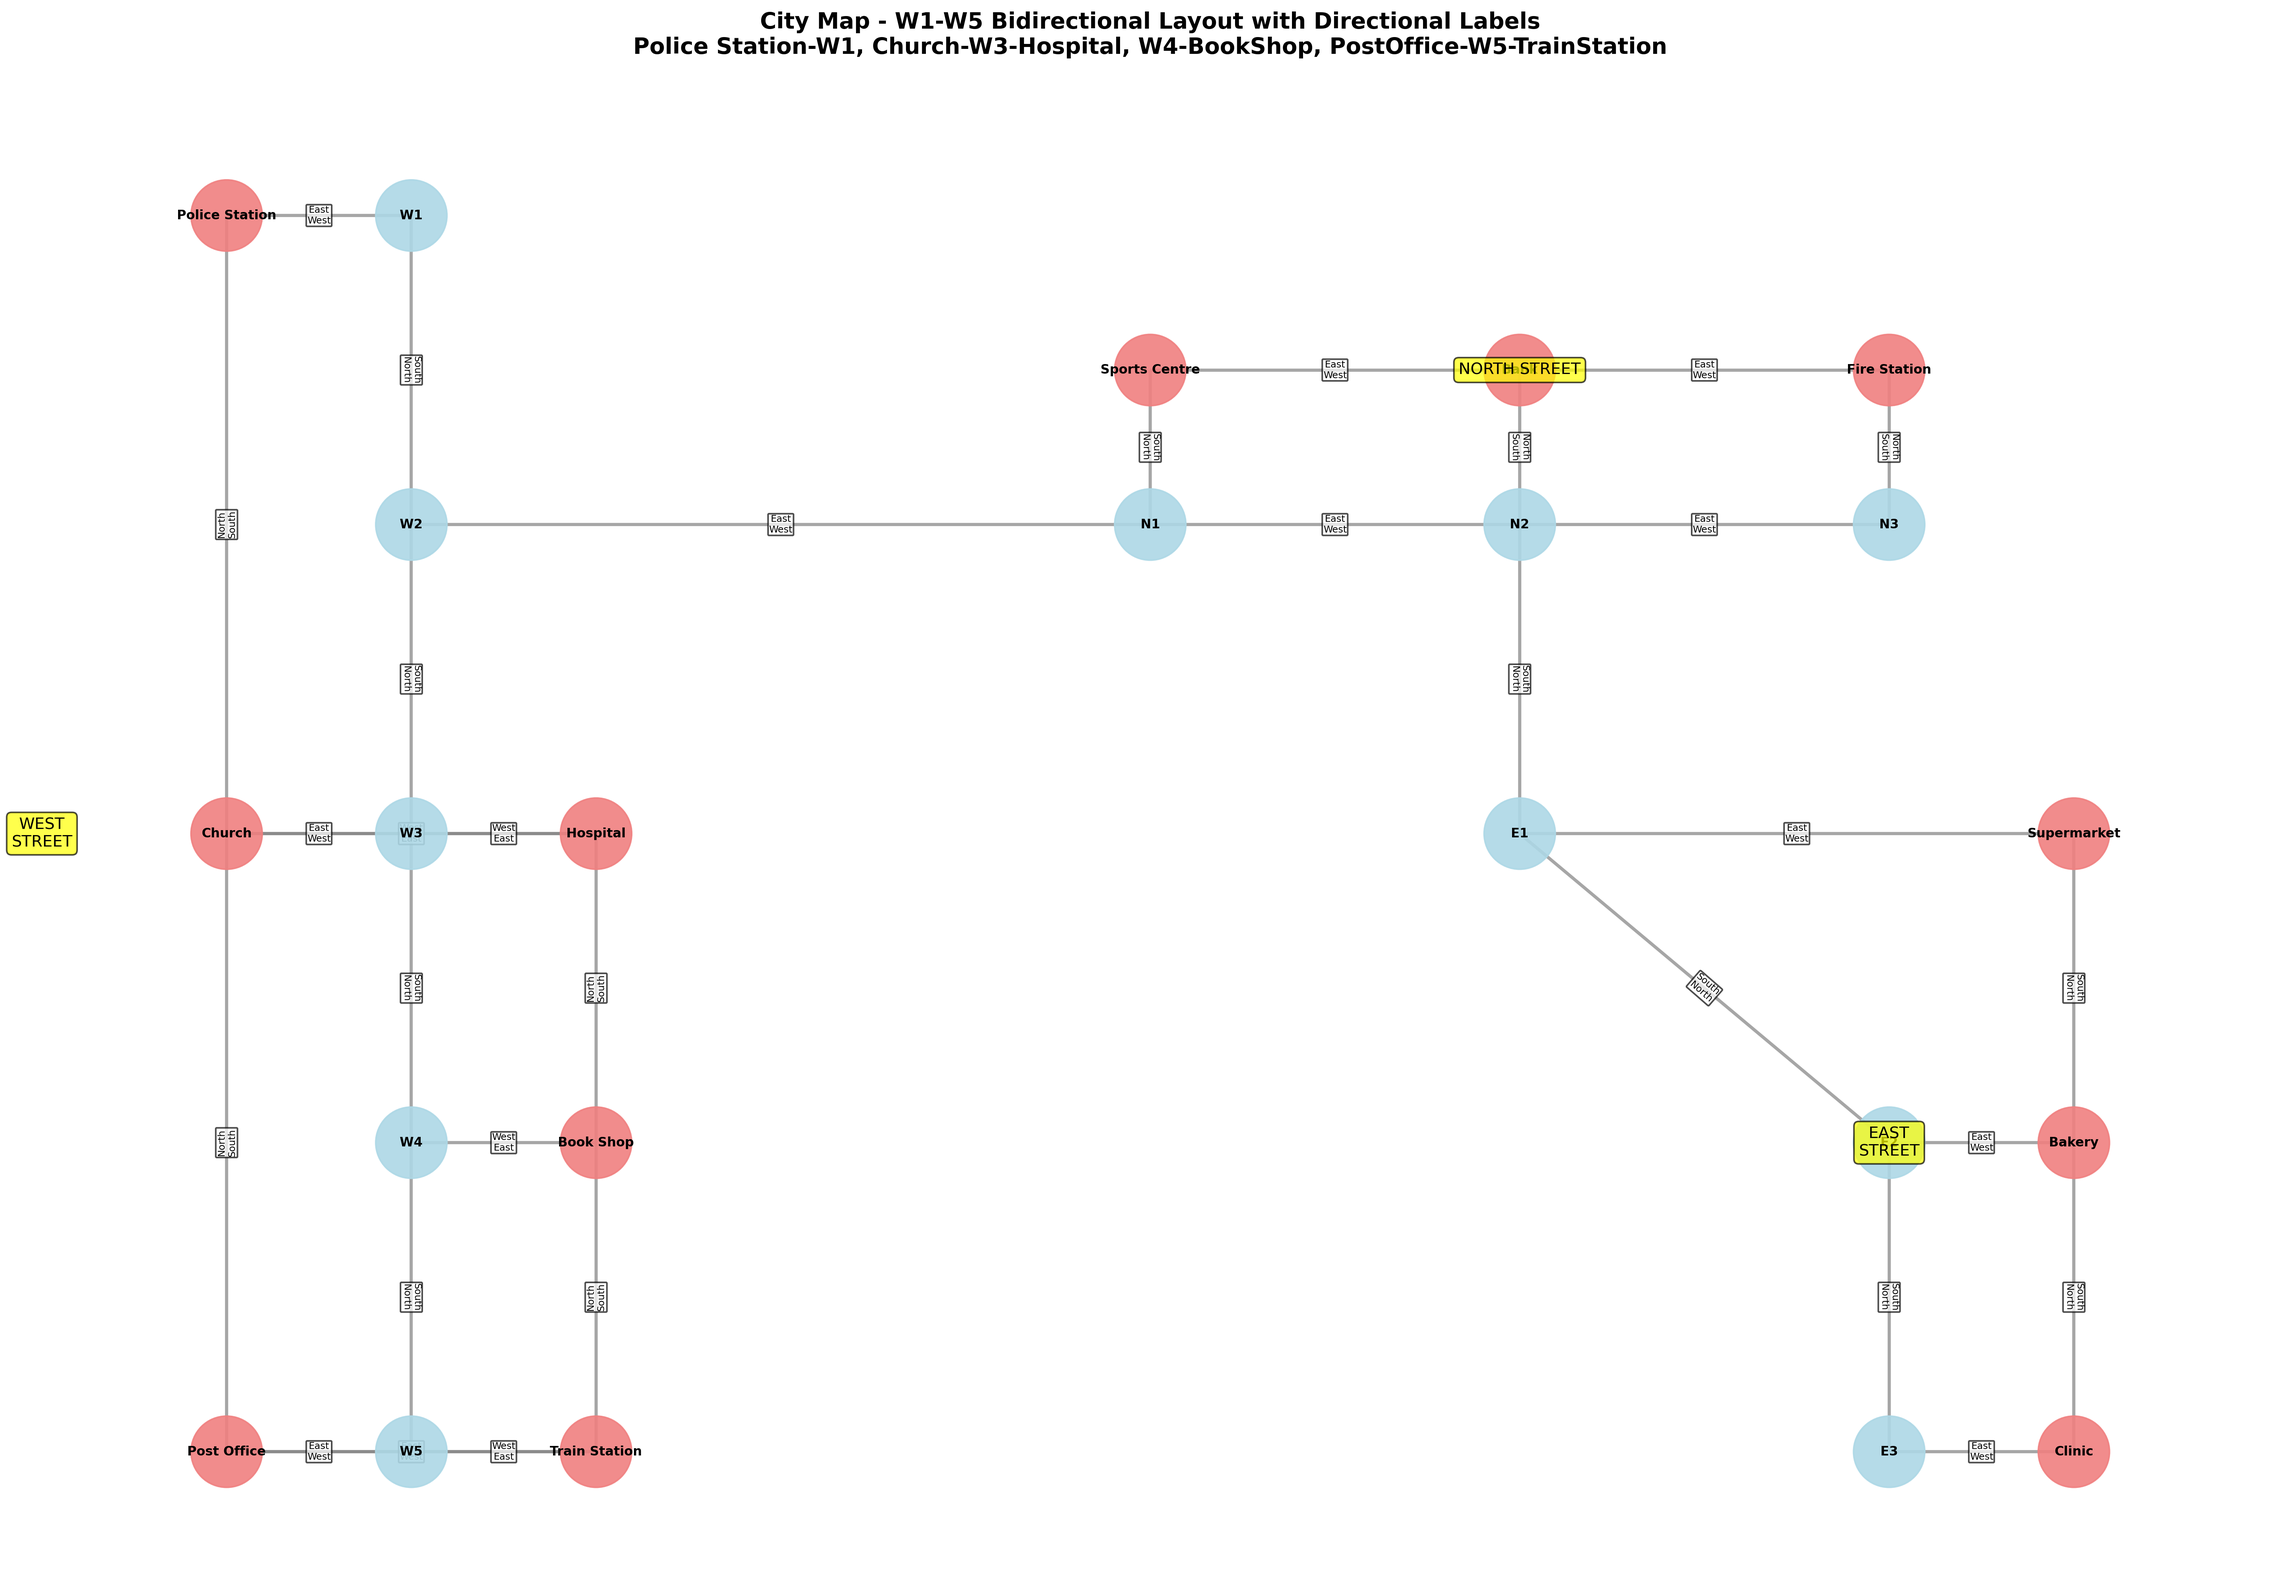
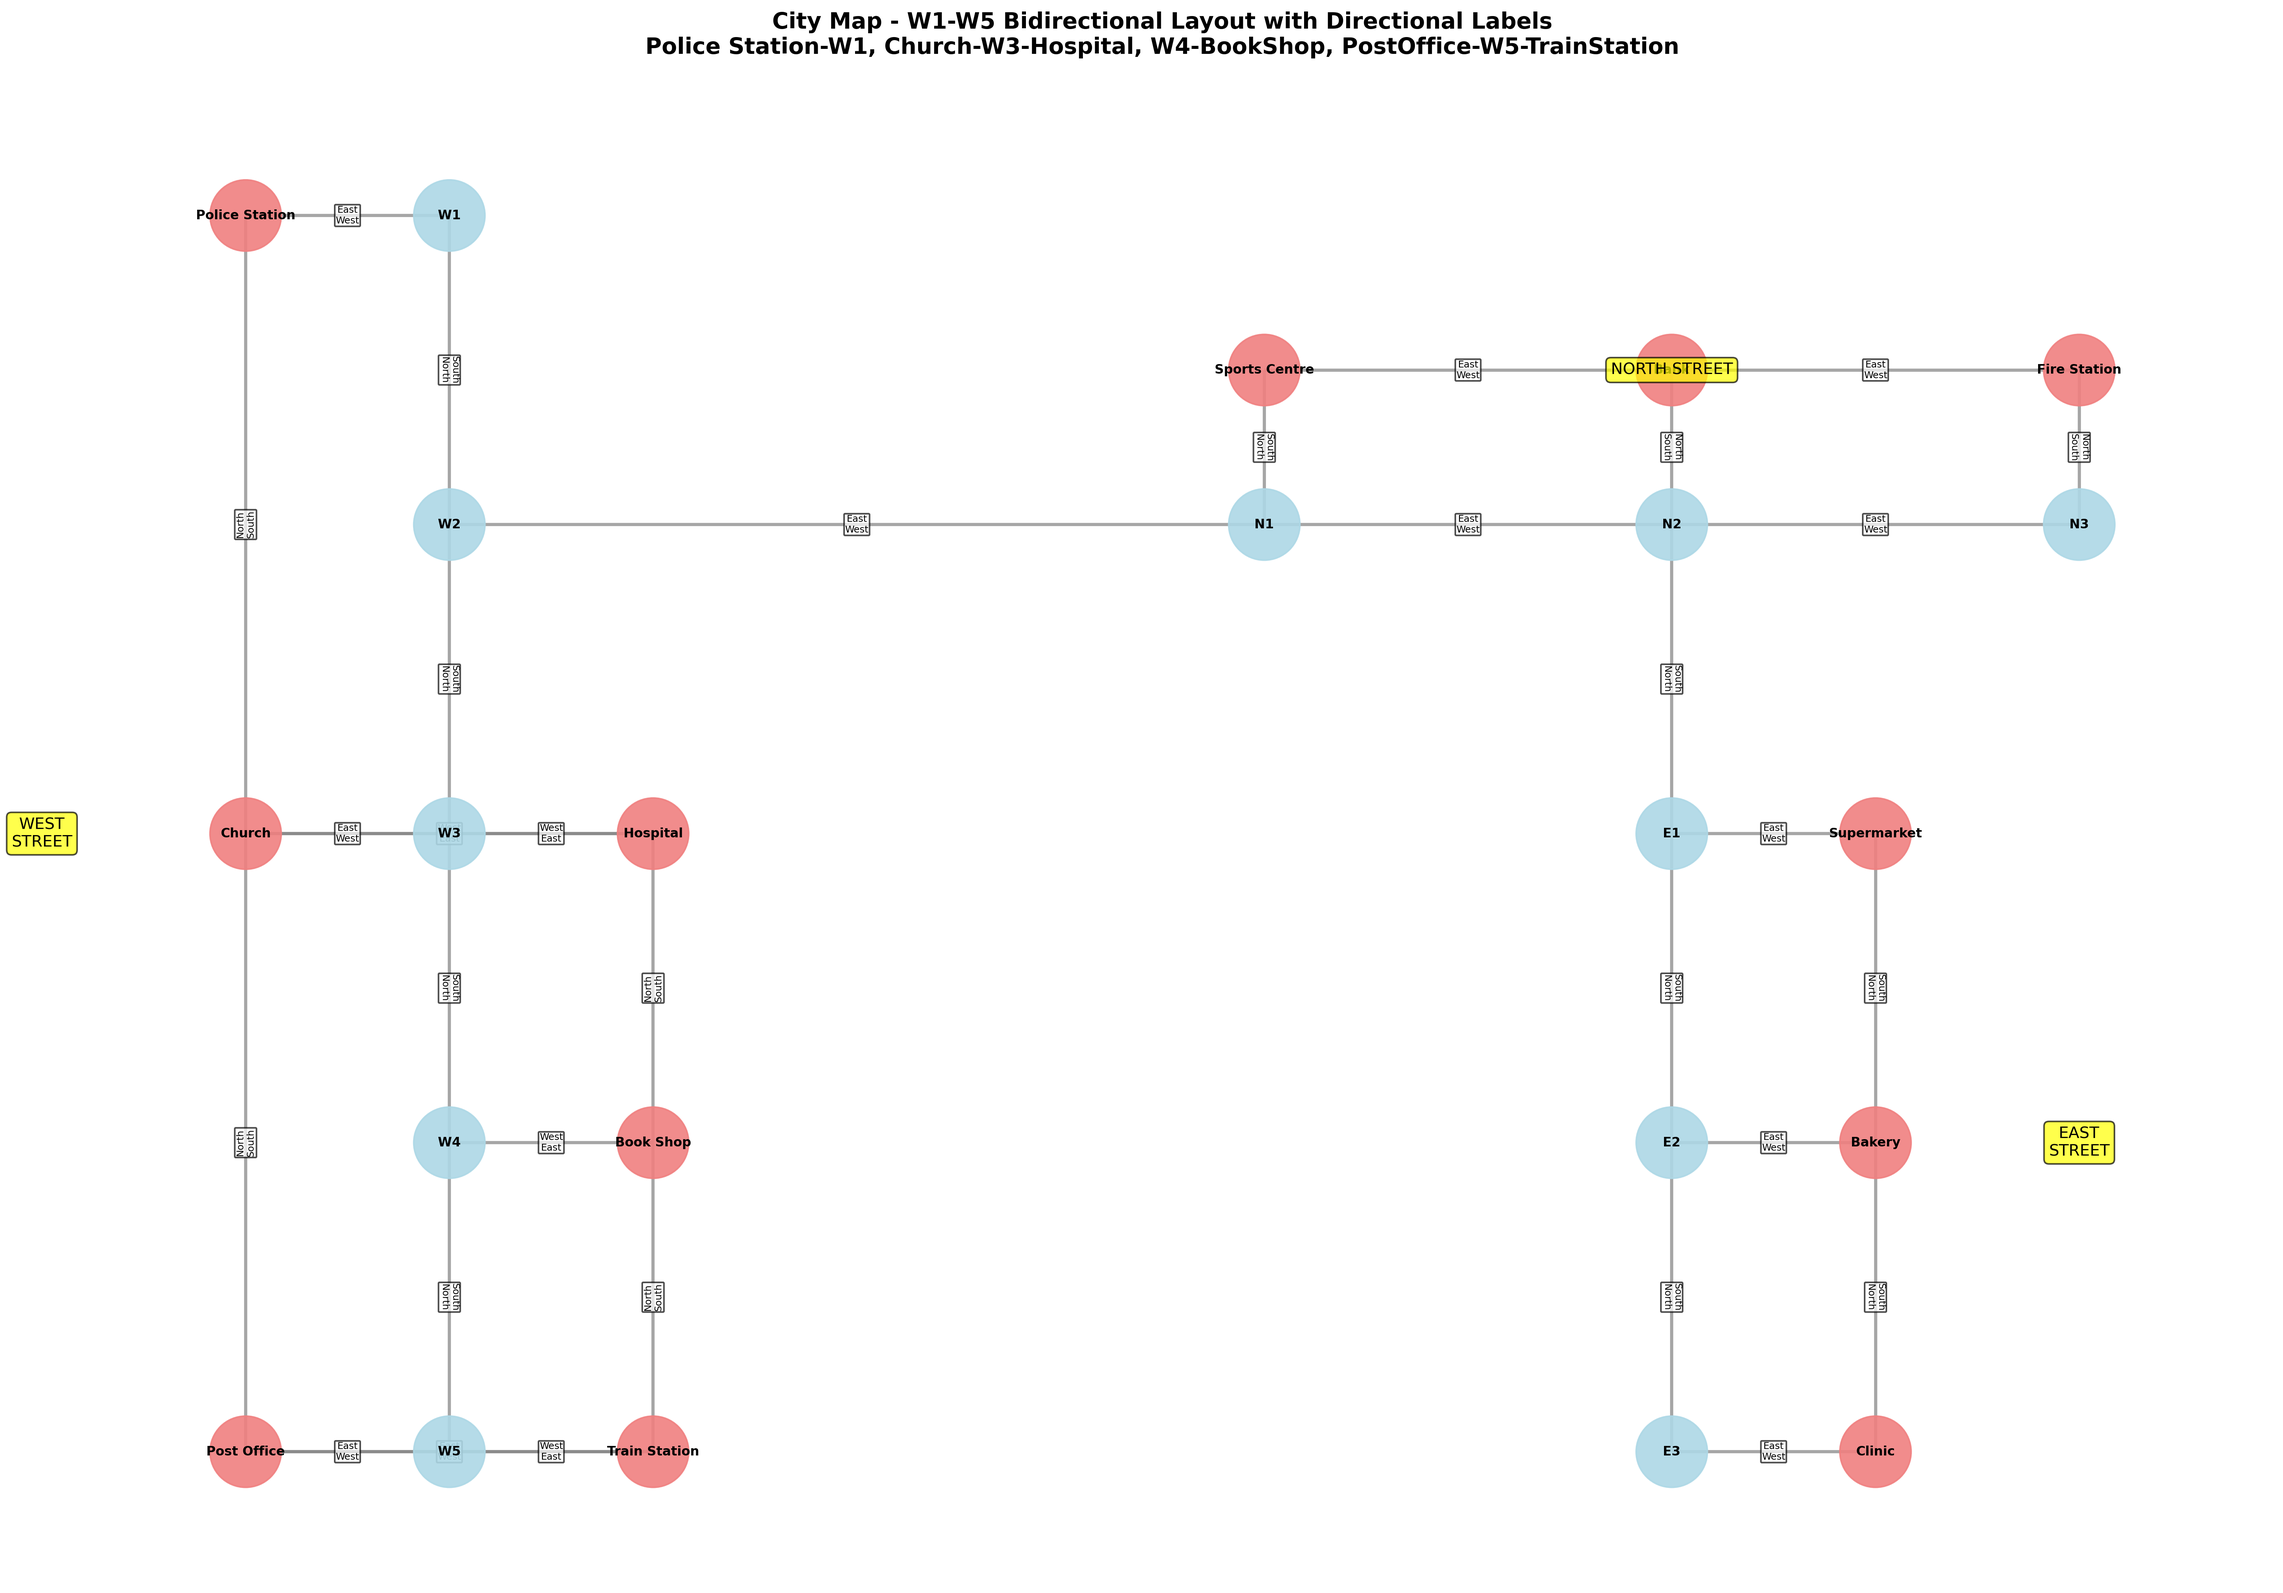
update

diff --git a/services/ToolsServer/Path/city_map.py b/services/ToolsServer/Path/city_map.py
@@ -145,9 +145,9 @@ def get_node_positions():
         "Bank": (9, 11),
         "Fire Station": (11, 11),
         # East Street buildings
-        "Supermarket": (12, 8),
-        "Bakery": (12, 6),
-        "Clinic": (12, 4),
+        "Supermarket": (10, 8),
+        "Bakery": (10, 6),
+        "Clinic": (10, 4),
         # Street nodes
         "W1": (3, 12),
         "W2": (3, 10),
@@ -158,8 +158,8 @@ def get_node_positions():
         "N2": (9, 10),
         "N3": (11, 10),
         "E1": (9, 8),
-        "E2": (11, 6),
-        "E3": (11, 4),
+        "E2": (9, 6),
+        "E3": (9, 4),
     }
 
 
